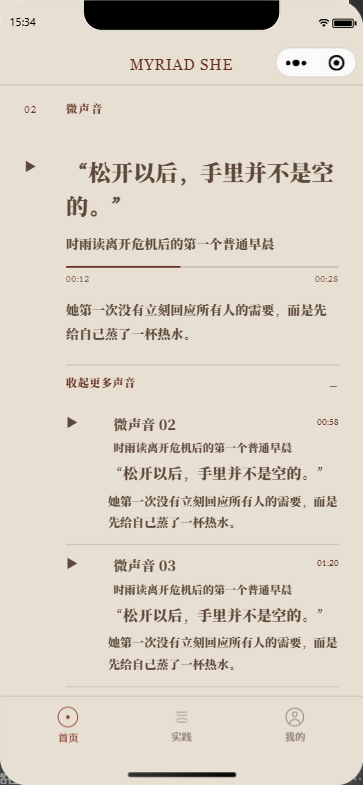
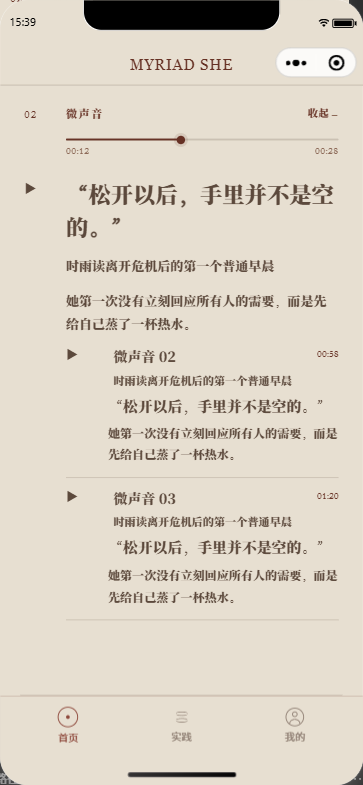
feat(miniprogram): 微声音更多入口与可拖拽进度条

diff --git a/miniprogram/pages/home/index.ts b/miniprogram/pages/home/index.ts
@@ -95,10 +95,16 @@ function buildContentsEntries(modules: PublicHomeModule[], issue: HomeIssue): Ho
 }
 
 Page({
-  data: { loading: true, statusBarHeight: 0, issue: emptyIssue, question: '', coverUrl: '', microVoice: null as PublicHomeContent['microVoice'] | null, sections: [] as string[], modules: [] as PublicHomeModule[], contentsEntries: [] as HomeContentsEntry[], hasModules: false, error: '', playingAudioId: '', activeAudioId: '', expandedAudio: {} as Record<string, boolean>, audioCurrentTime: 0, audioDuration: 0, audioCurrentTimeLabel: '00:00', audioDurationLabel: '00:00', audioProgressPercent: 0 },
+  data: { loading: true, statusBarHeight: 0, issue: emptyIssue, question: '', coverUrl: '', microVoice: null as PublicHomeContent['microVoice'] | null, sections: [] as string[], modules: [] as PublicHomeModule[], contentsEntries: [] as HomeContentsEntry[], hasModules: false, error: '', playingAudioId: '', activeAudioId: '', expandedAudio: {} as Record<string, boolean>, audioSeeking: false, audioCurrentTime: 0, audioDuration: 0, audioCurrentTimeLabel: '00:00', audioDurationLabel: '00:00', audioProgressPercent: 0 },
   requestGeneration: 0,
   audioContext: null as WechatMiniprogram.InnerAudioContext | null,
   audioContextModuleId: '',
+  audioSeekRect: null as { left: number; width: number } | null,
+  audioSeekTrackId: '',
+  audioSeekPlaybackId: '',
+  audioSeekResume: false,
+  audioSeekPendingX: null as number | null,
+  audioSeekEnded: false,
   onLoad() {
     this.setData({ statusBarHeight: wx.getWindowInfo().statusBarHeight });
     void this.loadContent();
@@ -118,7 +124,7 @@ Page({
   },
   async loadContent() {
     const generation = ++this.requestGeneration;
-    this.setData({ loading: true, error: '', issue: emptyIssue, question: '', coverUrl: '', microVoice: null, sections: [], modules: [], contentsEntries: [], hasModules: false, expandedAudio: {} });
+    this.setData({ loading: true, error: '', issue: emptyIssue, question: '', coverUrl: '', microVoice: null, sections: [], modules: [], contentsEntries: [], hasModules: false, expandedAudio: {}, audioSeeking: false });
     try {
       const data = await request<PublicHomeContent>('/content/home');
       if (generation !== this.requestGeneration) return;
@@ -166,6 +172,84 @@ Page({
       return;
     }
     this.setData({ expandedAudio: { ...this.data.expandedAudio, [moduleId]: !expanded } });
+  },
+  startAudioSeek(event: WechatMiniprogram.TouchEvent) {
+    const moduleId = String(event.currentTarget.dataset.moduleId || '');
+    const trackId = String(event.currentTarget.dataset.trackId || '');
+    const audio = this.data.modules.find((module) => module.id === moduleId && module.type === 'audio');
+    const tracks = Array.isArray(audio?.tracks) ? audio.tracks as Array<Record<string, unknown>> : [];
+    const track = tracks.find((item) => item.id === trackId);
+    const playbackId = String(track?.playbackId || '');
+    if (!playbackId || this.data.activeAudioId !== playbackId || !this.audioContext || this.audioContextModuleId !== playbackId) return;
+    const touch = event.touches?.[0];
+    const clientX = Number(touch?.clientX || 0);
+    this.audioSeekTrackId = trackId;
+    this.audioSeekPlaybackId = playbackId;
+    this.audioSeekResume = this.data.playingAudioId === playbackId;
+    this.audioSeekPendingX = clientX;
+    this.audioSeekEnded = false;
+    if (this.audioSeekResume && this.audioContext) {
+      this.audioContext.pause();
+      this.setData({ playingAudioId: '' });
+    }
+    this.setData({ audioSeeking: true });
+    this.createSelectorQuery().select(`#audio-seek-${moduleId}-${trackId}`).boundingClientRect((rect) => {
+      if (this.audioSeekTrackId !== trackId) return;
+      if (!rect || !rect.width) {
+        this.finishAudioSeek();
+        return;
+      }
+      this.audioSeekRect = { left: rect.left, width: rect.width };
+      if (this.audioSeekPendingX !== null) this.seekAudioAt(this.audioSeekPendingX);
+      if (this.audioSeekEnded) this.finishAudioSeek();
+    }).exec();
+  },
+  moveAudioSeek(event: WechatMiniprogram.TouchEvent) {
+    if (!this.audioSeekTrackId) return;
+    const touch = event.touches?.[0];
+    if (!touch) return;
+    this.audioSeekPendingX = Number(touch.clientX || 0);
+    if (this.audioSeekRect) this.seekAudioAt(this.audioSeekPendingX);
+  },
+  endAudioSeek(event: WechatMiniprogram.TouchEvent) {
+    if (!this.audioSeekTrackId) return;
+    const touch = event.changedTouches?.[0] || event.touches?.[0];
+    if (touch) {
+      this.audioSeekPendingX = Number(touch.clientX || 0);
+      if (this.audioSeekRect) this.seekAudioAt(this.audioSeekPendingX);
+    }
+    if (this.audioSeekRect) this.finishAudioSeek();
+    else this.audioSeekEnded = true;
+  },
+  seekAudioAt(clientX: number) {
+    if (!this.audioSeekRect || !this.audioContext || this.audioContextModuleId !== this.audioSeekPlaybackId) return;
+    const duration = Math.max(0, Number(this.audioContext.duration) || this.data.audioDuration);
+    if (!duration) return;
+    const ratio = Math.max(0, Math.min(1, (clientX - this.audioSeekRect.left) / this.audioSeekRect.width));
+    const currentTime = duration * ratio;
+    this.audioContext.seek(currentTime);
+    this.setData({
+      audioCurrentTime: currentTime,
+      audioDuration: duration,
+      audioCurrentTimeLabel: formatAudioTime(currentTime),
+      audioDurationLabel: formatAudioTime(duration),
+      audioProgressPercent: ratio * 100,
+    });
+  },
+  finishAudioSeek() {
+    const playbackId = this.audioSeekPlaybackId;
+    const resume = this.audioSeekResume && Boolean(playbackId) && Boolean(this.audioContext) && this.audioContextModuleId === playbackId;
+    this.audioSeekTrackId = '';
+    this.audioSeekRect = null;
+    this.audioSeekPlaybackId = '';
+    this.audioSeekResume = false;
+    this.audioSeekPendingX = null;
+    this.audioSeekEnded = false;
+    this.setData({ audioSeeking: false });
+    if (resume && this.audioContext) {
+      this.audioContext.play();
+      this.setData({ playingAudioId: playbackId });
+    }
   },
   toggleAudio(event: WechatMiniprogram.CustomEvent) {
     const moduleId = String(event.currentTarget.dataset.moduleId || '');
@@ -221,7 +305,7 @@ Page({
     context.play();
   },
   syncAudioProgress(context: WechatMiniprogram.InnerAudioContext, force = false) {
-    if (this.audioContext !== context) return;
+    if (this.audioContext !== context || this.audioSeekTrackId) return;
     const currentTime = Math.max(0, Number(context.currentTime) || 0);
     const duration = Math.max(0, Number(context.duration) || 0);
     if (!force && Math.floor(currentTime * 2) === Math.floor(this.data.audioCurrentTime * 2) && Math.floor(duration) === Math.floor(this.data.audioDuration)) return;
@@ -234,13 +318,19 @@ Page({
     });
   },
   stopAudioPlayback(resetUi = true) {
+    this.audioSeekTrackId = '';
+    this.audioSeekRect = null;
+    this.audioSeekPlaybackId = '';
+    this.audioSeekResume = false;
+    this.audioSeekPendingX = null;
+    this.audioSeekEnded = false;
     if (this.audioContext) {
       this.audioContext.stop();
       this.audioContext.destroy();
       this.audioContext = null;
     }
     this.audioContextModuleId = '';
-    if (resetUi) this.setData({ playingAudioId: '', activeAudioId: '', audioCurrentTime: 0, audioDuration: 0, audioCurrentTimeLabel: '00:00', audioDurationLabel: '00:00', audioProgressPercent: 0 });
+    if (resetUi) this.setData({ playingAudioId: '', activeAudioId: '', audioSeeking: false, audioCurrentTime: 0, audioDuration: 0, audioCurrentTimeLabel: '00:00', audioDurationLabel: '00:00', audioProgressPercent: 0 });
   },
   openStoryAction(event: WechatMiniprogram.CustomEvent) {
     const targetId = String(event.currentTarget.dataset.targetId || 'story');

diff --git a/docs/development-progress.md b/docs/development-progress.md
@@ -1,12 +1,13 @@
 # MYRIAD SHE 开发进度
 
-## 2026-10-30 首页微声音增加「更多声音」折叠
+## 2026-10-30 首页微声音「更多声音」入口与可拖拽进度
 
 - 后台微声音原本已支持最多 3 段（「添加声音」），本次只调整小程序首页的展示方式。
-- 首页默认只展示主声音；当本期发布 2–3 段时，在主声音的引言、说明和文字稿之后显示「更多声音 · N 段 +」按钮，点击后展开其余声音，再次点击收起。按钮不打断主声音的阅读，作为微声音栏目的收尾入口。
-- 声音进度条从播放按钮上方移到主声音的播放/引言行之后、文字稿之前；额外声音的进度条也放在各自播放行之后、引言/文字稿之前。这样进度条靠近播放控制，又不会被长文字稿压到页面很下方。
+- 首页默认只展示主声音；当本期发布 2–3 段时，在「02 微声音」栏右侧显示紧凑的「更多声音 +」入口，展开后变为「收起 −」，额外声音列表继续跟在主声音文案之后。
+- 声音进度条移到引言上方、播放行进度的下方；额外声音的进度条也在各自标题行之后、引言之前。这样进度条靠近播放控制，又不会被长文字稿压到页面很下方。
+- 进度条支持触摸拖拽和轻点定位：播放中按下时暂停当前播放并进入拖动态，松手后按原播放状态恢复；拖动过程中实时更新时间、百分比和滑块位置。
 - 展开后保留每段声音的播放、时长、进度、引言、说明和文字稿；当额外声音正在播放时阻止收起，并提示「正在播放，暂停后可收起」，避免把正在播放的进度隐藏。
-- 使用 3 段注入数据验证：折叠态只显示主声音和「更多声音 · 2 段」按钮，展开态显示 2 条额外声音、按钮变为「收起更多声音」，`aria-expanded` 同步为 `true/false`；截图见 `docs/screenshots/home-audio-more-collapsed.png`、`home-audio-more-expanded.png`、`home-audio-progress-layout.png`。
+- 使用 3 段注入数据验证：空闲态标题行同时容纳时长和「更多声音 +」；播放态进度条位于引言上方，拖到约 82% 后时间变为 00:23 并恢复播放；轻点约 32% 可定位到 00:09。截图见 `docs/screenshots/home-audio-more-idle.png`、`home-audio-more-collapsed.png`、`home-audio-more-expanded.png`、`home-audio-progress-layout.png`、`home-audio-progress-drag.png`。
 - 仅修改本地小程序首页，未改接口、后台发布逻辑或其他页面；未发布体验版或正式版。
 
 ## 2026-10-30 隐私政策/用户协议页视觉简化
